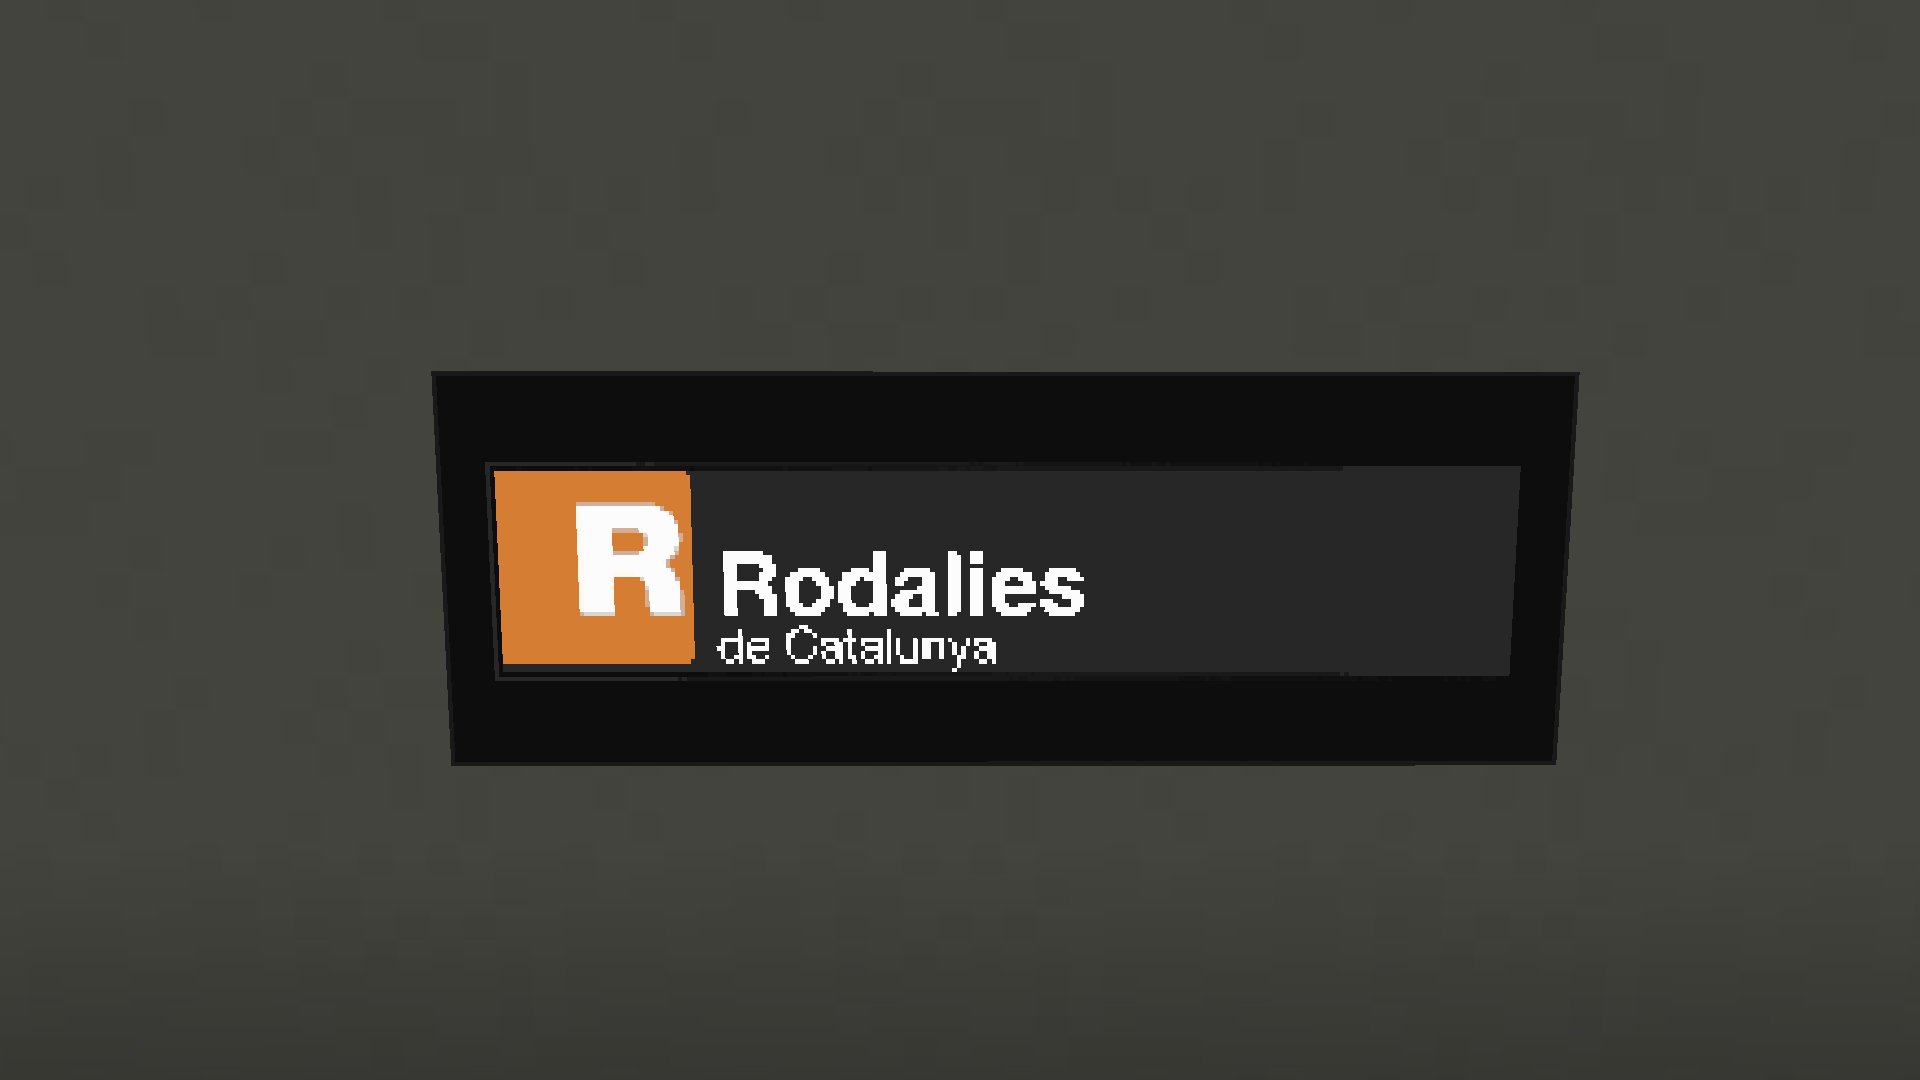
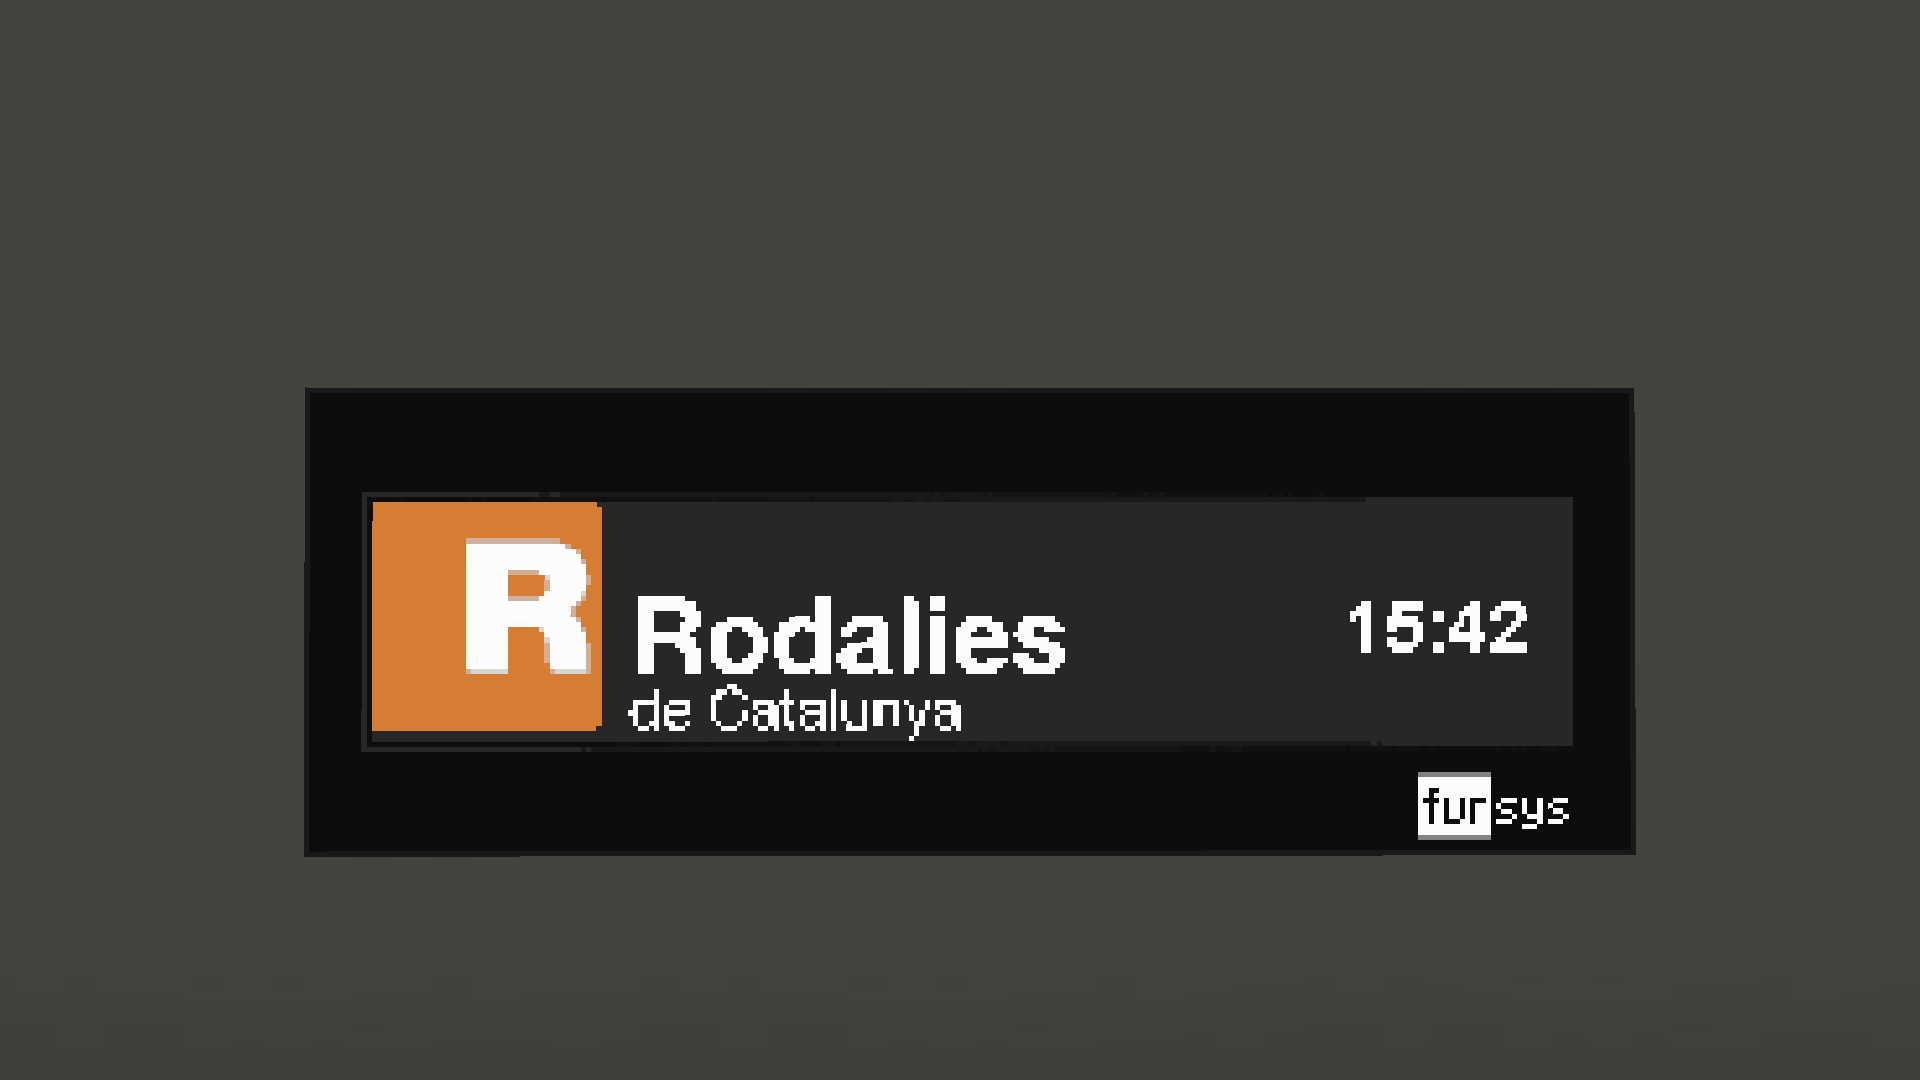
canvis versió 1.5.6

Changed region(s): [[0.1562, 0.3361, 0.875, 0.7944]]

diff --git a/src/main/java/io/github/janvinas/trensminecat/TrensMinecat.java b/src/main/java/io/github/janvinas/trensminecat/TrensMinecat.java
@@ -217,45 +217,53 @@ public class TrensMinecat extends JavaPlugin {
                 if(args[1].equalsIgnoreCase("displaymanual")){
 
                     if(!heldItem.getType().equals(Material.FILLED_MAP)){
-                        sender.sendMessage("Agafa el mapa amb la mà dreta per configurar-lo");
-                        return false;
+                        sender.sendMessage(ChatColor.RED + "Agafa el mapa amb la mà dreta per configurar-lo");
+                        return true;
+                    }
+                    MapDisplay mapDisplay = MapDisplay.getHeldDisplay((Player) sender);
+                    if(mapDisplay == null){
+                        sender.sendMessage(ChatColor.RED + "No hi ha cap pantalla vinculada a aquest mapa!");
+                        return true;
                     }
 
                     if(args.length == 4 && args[2].equalsIgnoreCase("andana")){
-                        ItemUtil.getMetaTag(heldItem).putValue("platform", args[3]);
+                        mapDisplay.properties.set("platform", args[3]);
                         sender.sendMessage(ChatColor.AQUA + "S'ha configurat \"andana\" = " + args[3]);
-                        return true;
                     }else if(args.length == 4 && args[2].equalsIgnoreCase("marca")) {
-                        ItemUtil.getMetaTag(heldItem).putValue("brand", args[3]);
+                        mapDisplay.properties.set("brand", args[3]);
                         sender.sendMessage(ChatColor.AQUA + "S'ha configurat \"marca\" = " + args[3]);
-                        return true;
                     }else if(args.length == 4 && args[2].equalsIgnoreCase("plantilla")) {
-                        ItemUtil.getMetaTag(heldItem).putValue("template", args[3].replaceAll("_", " "));
+                        mapDisplay.properties.set("template", args[3].replaceAll("_", " "));
                         sender.sendMessage(ChatColor.AQUA + "S'ha configurat \"plantilla\" = " + args[3]);
-                        return true;
                     }else{
-                        sender.sendMessage("Propietat desconeguda o argument incorrecte");
+                        sender.sendMessage(ChatColor.AQUA + "Propietat desconeguda o argument incorrecte");
                     }
+
+                    mapDisplay.restartDisplay();
+                    return true;
                 }else if(args[1].equalsIgnoreCase("sldisplay")){
                     if(!heldItem.getType().equals(Material.FILLED_MAP)){
-                        sender.sendMessage("Agafa el mapa amb la mà dreta per configurar-lo");
-                        return false;
+                        sender.sendMessage(ChatColor.RED + "Agafa el mapa amb la mà dreta per configurar-lo");
+                        return true;
+                    }
+                    MapDisplay mapDisplay = MapDisplay.getHeldDisplay((Player) sender);
+                    if(mapDisplay == null){
+                        sender.sendMessage(ChatColor.RED + "No hi ha cap pantalla vinculada a aquest mapa!");
+                        return true;
                     }
 
                     if(args.length == 4 && args[2].equalsIgnoreCase("destinacio")){
-                        ItemUtil.getMetaTag(heldItem).putValue("destination", args[3].replaceAll("_"," "));
+                        mapDisplay.properties.set("destination", args[3].replaceAll("_"," "));
                         sender.sendMessage(ChatColor.AQUA + "S'ha configurat \"destinació\" = " + args[3]);
-                        return true;
                     }else if(args.length == 4 && args[2].equalsIgnoreCase("variable")){
-                        ItemUtil.getMetaTag(heldItem).putValue("variable", args[3].replaceAll("_", " "));
+                        mapDisplay.properties.set("variable", args[3].replaceAll("_", " "));
                         sender.sendMessage(ChatColor.AQUA + "S'ha configurat \"variable\" = " + args[3]);
-                        return true;
                     }else{
                         sender.sendMessage("Propietat desconeguda o argument incorrecte");
                     }
 
-                    MapDisplay.getHeldDisplay((Player) sender).onDetached();
-                    MapDisplay.getHeldDisplay((Player) sender).onAttached();
+                    mapDisplay.restartDisplay();
+                    return true;
                 }
 
             }else if(args.length == 1 && args[0].equalsIgnoreCase("actualitzarestat")){
@@ -323,7 +331,9 @@ public class TrensMinecat extends JavaPlugin {
                 try{
                     ItemStack heldItem = ((Player) sender).getInventory().getItemInMainHand();
                     Map<String, CommonTag> data = ItemUtil.getMetaTag(heldItem).getData();
-                    data.forEach((key, value) -> sender.sendMessage(ChatColor.AQUA + key + "=" + value.toString()) );
+                    sender.sendMessage(ChatColor.AQUA + "" + ChatColor.UNDERLINE + "iteminfo");
+                    data.forEach((key, value) ->
+                            sender.sendMessage(ChatColor.AQUA + key + ChatColor.RESET + " = " + ChatColor.GRAY + value.toString()) );
                 }catch(Exception e){
                     sender.sendMessage(ChatColor.RED + "Error obtenint la informació!");
                 }
@@ -355,20 +365,23 @@ public class TrensMinecat extends JavaPlugin {
                 if("configurar".startsWith(args[0])){
                     if(args.length == 1){
                         options.add("configurar");
-                    }else if("displaymanual".startsWith(args[1])){
-                        if(args.length == 2) {
-                            options.add("displaymanual");
-                        }else{
-                            if("andana".startsWith(args[2])) options.add("andana [número]");
-                            if("marca".startsWith(args[2])) options.add("marca [marca]");
-                        }
+                    }else{
+                        if("displaymanual".startsWith(args[1])){
+                            if(args.length == 2) {
+                                options.add("displaymanual");
+                            }else{
+                                if("andana".startsWith(args[2])) options.add("andana [número]");
+                                if("marca".startsWith(args[2])) options.add("marca [marca]");
+                            }
 
-                    }else if("sldisplay".startsWith(args[1])){
-                        if(args.length == 2){
-                            options.add("sldisplay");
-                        }else{
-                            if("destinacio".startsWith(args[2])) options.add("destinacio");
-                            if("variable".startsWith(args[2])) options.add("variable");
+                        }
+                        if("sldisplay".startsWith(args[1])){
+                            if(args.length == 2){
+                                options.add("sldisplay");
+                            }else{
+                                if("destinacio".startsWith(args[2])) options.add("destinacio");
+                                if("variable".startsWith(args[2])) options.add("variable");
+                            }
                         }
                     }
                 }
@@ -409,6 +422,9 @@ public class TrensMinecat extends JavaPlugin {
                 }
                 if("traininfo".startsWith(args[0]) && args.length == 1){
                     options.add("traininfo");
+                }
+                if("iteminfo".startsWith(args[0]) && args.length == 1){
+                    options.add("iteminfo");
                 }
             }
 

diff --git a/src/main/java/io/github/janvinas/trensminecat/ManualDisplays.java b/src/main/java/io/github/janvinas/trensminecat/ManualDisplays.java
@@ -501,7 +501,7 @@ public class ManualDisplays {
         public void onAttached() {
             getLayer(1).draw(loadTexture(imgDir + "ManualDisplay6.png"), 0, 0);
             brand = properties.get("brand", String.class, "rodalies"); //si no s'ha especificat una marca, retorna rodalies.
-            getLayer(3).draw(loadTexture(imgDir + "46px/" + brand + ".png"), 13, 41);
+            getLayer(2).draw(loadTexture(imgDir + "46px/" + brand + ".png"), 13, 41);
 
             super.onAttached();
         }
@@ -516,16 +516,16 @@ public class ManualDisplays {
             super.onTick();
 
             if(!hasTrain){
-                getLayer(2).clear();
+                getLayer(3).clear();
                 LocalDateTime now = LocalDateTime.now();
                 DateTimeFormatter formatter = DateTimeFormatter.ofPattern("HH:mm");
-                BufferedImage time = new BufferedImage(40,20, BufferedImage.TYPE_INT_ARGB);
+                BufferedImage time = new BufferedImage(255,128, BufferedImage.TYPE_INT_ARGB);
                 Graphics2D g = time.createGraphics();
                 g.setFont(helvetica);
                 g.setColor(new Color(255, 255, 255));
-                g.drawString(formatter.format(now), 0, 0);
+                g.drawString(formatter.format(now), 200, 70);
                 g.dispose();
-                getLayer(2).draw(MapTexture.fromImage(time), 180, 70);
+                getLayer(3).draw(MapTexture.fromImage(time), 0, 0);
             }
         }
 
@@ -564,8 +564,8 @@ public class ManualDisplays {
             }
 
             g.dispose();
-            getLayer(3).draw(MapTexture.fromImage(text),0 , 0);
-            getLayer(3).draw(lineIcon, 13, 41);
+            getLayer(2).draw(MapTexture.fromImage(text),0 , 0);
+            getLayer(2).draw(lineIcon, 13, 41);
 
             if(clearIn != 0){
                 getPlugin().getServer().getScheduler().scheduleSyncDelayedTask(getPlugin(), () -> {
@@ -581,8 +581,8 @@ public class ManualDisplays {
             if(! properties.get("ID", String.class).equals(displayID)) return false;
 
             hasTrain = false;
-            getLayer(3).clear();
-            getLayer(3).draw(loadTexture(imgDir + "46px/" + brand + ".png"), 13, 41);
+            getLayer(2).clear();
+            getLayer(2).draw(loadTexture(imgDir + "46px/" + brand + ".png"), 13, 41);
 
             return true;
         }

diff --git a/src/main/java/io/github/janvinas/trensminecat/SignLinkDisplays.java b/src/main/java/io/github/janvinas/trensminecat/SignLinkDisplays.java
@@ -2,17 +2,15 @@ package io.github.janvinas.trensminecat;
 
 import com.bergerkiller.bukkit.common.map.MapDisplay;
 import com.bergerkiller.bukkit.common.map.MapTexture;
-import com.bergerkiller.bukkit.sl.API.Variable;
 import com.bergerkiller.bukkit.sl.API.Variables;
 
 import java.awt.*;
 import java.awt.image.BufferedImage;
 import java.time.LocalDateTime;
 import java.time.format.DateTimeFormatter;
-import java.util.Date;
 
 /**
- * Those displays contain one or more SignLink variable that is updated every tick.
+ * Those displays contain one or more SignLink variable that are updated every tick.
  */
 public class SignLinkDisplays {
     static String imgDir = "img/";
@@ -40,12 +38,12 @@ public class SignLinkDisplays {
             Graphics2D g = variables.createGraphics();
             g.setFont(TrensMinecat.minecraftiaJavaFont);
             g.setColor(new Color(143, 255, 53));
-            g.drawString(LocalDateTime.now().format(formatter), 18, 35);
-            g.drawString("PROPER", 92, 35);
-            g.drawString("TREN", 92, 45);
+            g.drawString(LocalDateTime.now().format(formatter), 24, 40);
+            g.drawString("PROPER", 95, 40);
+            g.drawString("TREN", 95, 50);
             g.drawString("DIRECCIÓ: " + destination.toUpperCase(), 24, 82);
-            g.setFont(TrensMinecat.minecraftiaJavaFont.deriveFont(24F));
-            g.drawString(Variables.get(signLinkVariable).getDefault(), 145, 65);
+            g.setFont(TrensMinecat.minecraftiaJavaFont.deriveFont(16F));
+            g.drawString(Variables.get(signLinkVariable).getDefault(), 140, 52);
             g.dispose();
 
             getLayer(2).draw(MapTexture.fromImage(variables), 0, 12); //global offset

diff --git a/README.md b/README.md
@@ -25,6 +25,9 @@ _Els models 1 i 2 provenen de versions antigues i probablement desapareixeran en
 ###### 5:
 ![imatge](/imatges/5.png)
 
+_Imatge 5: JCIBravo_
+
+
 ## Pantalles Manuals
 
 Visualment són iguals que les pantalles normals però la informació no s'actualitza mitjançant un horari sinó amb cartells Traincarts personalitzats.
@@ -107,6 +110,21 @@ lines:
 També cal crear les plantilles per les pantalles que es volen utilitzar (igual que en les pantalles automàtiques normals). Es pot trobar tota la informació a l'arxiu configuració.
 
 Per registrar un tren, i que les pantalles actualitzin la seva hora d'arribada tenint en compte la seva posició, cal crear-lo amb el comandament [`/spawntrain`](#Comandaments).
+
+## Pantalles SignLink
+
+Contenen una variable signlink configurable que s'actualitza cada tick.
+
+
+#### Models disponibles
+
+###### 1:
+
+![imatge](/imatges/signlink/1.png)
+
+Per actualitzar el nom de la variable: `/tm configurar sldisplay variable <nom>`
+Per actualitzar la destinació mostrada al cartell: `/tm configurar sldisplay destinacio <nom>`
+
 ## Comandaments
 
 `/tm crear pantalla <model> <plantilla> <nom>` Veure [Pantalles](#Pantalles).
@@ -126,6 +144,8 @@ Per registrar un tren, i que les pantalles actualitzin la seva hora d'arribada t
 `/tm actualitzarestat` Actualitza l'estat del servei quan s'ha modificat una variable.
 
 `/tm spawntrain <tren> <mon> <x> <y> <z> <nom> <destinacio> [register]` Spawneja un tren en un bloc de rail qualsevol. Per registrar-lo s'ha d'afegir obligatòriament nom i destinació i "register" al final del comandament.
+
+`/tm iteminfo` Obté informació de l'ítem agafat amb la mà (funciona només amb mapDisplays i ítems que tinguin tags).
 
 _Nota: en la majoria de paràmetres, excepte els noms del tren, els caràcters `_` són substituits per une espai._
 
